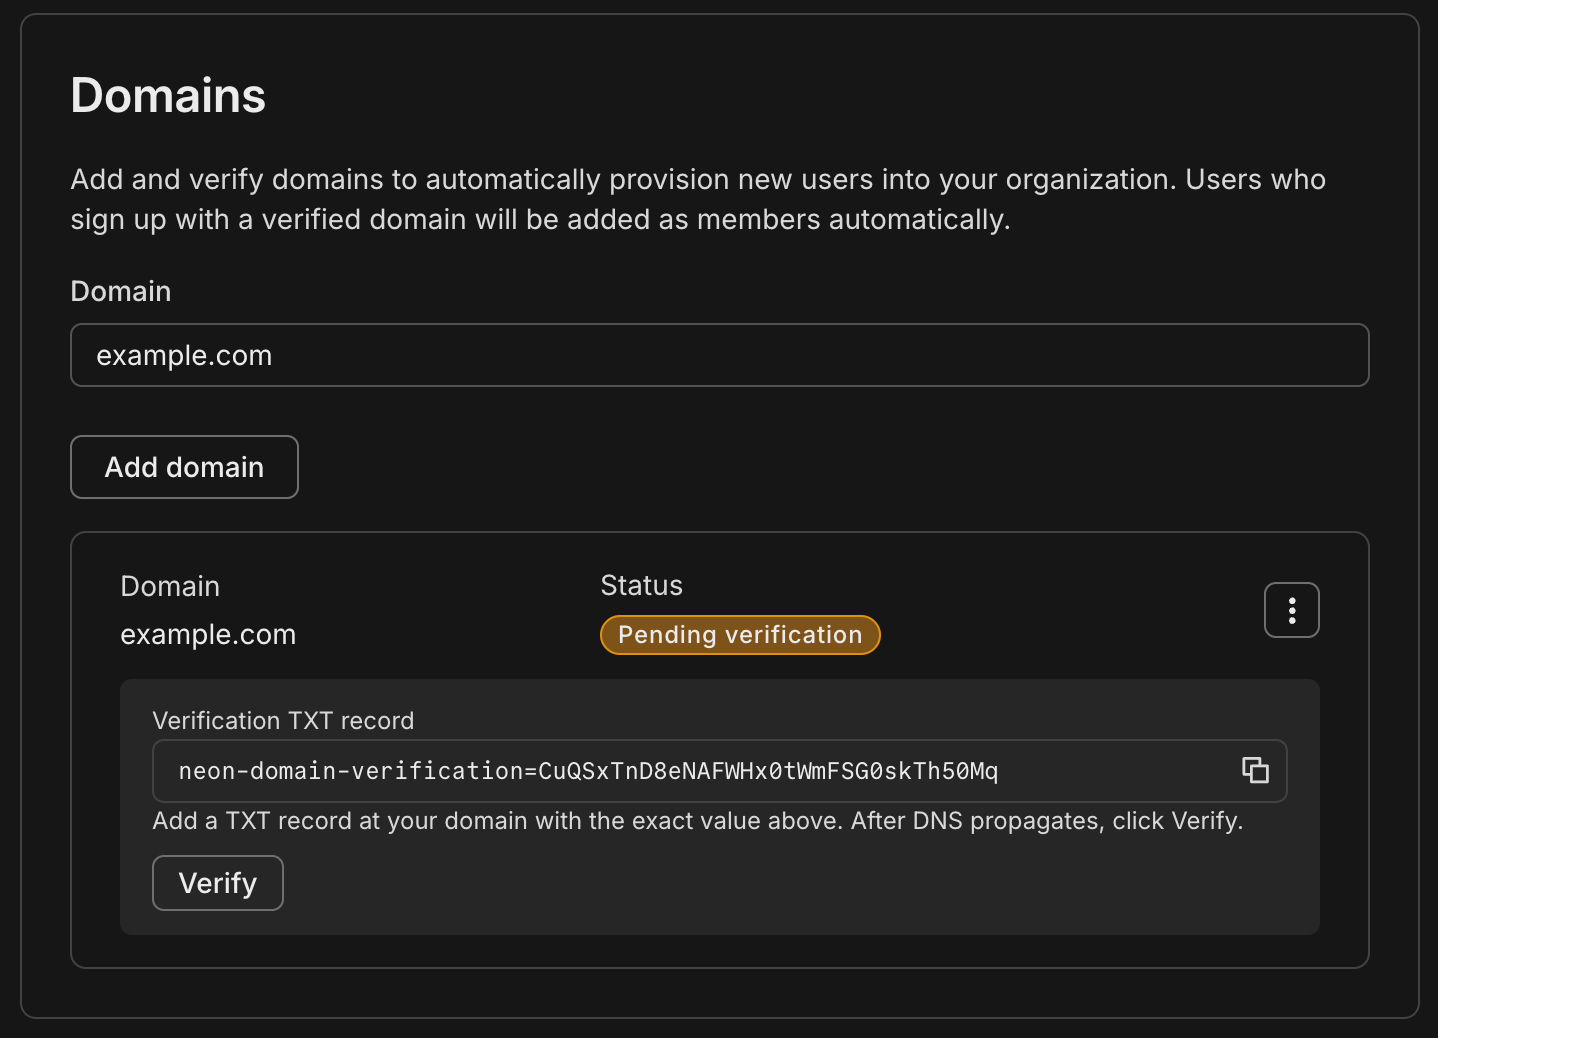
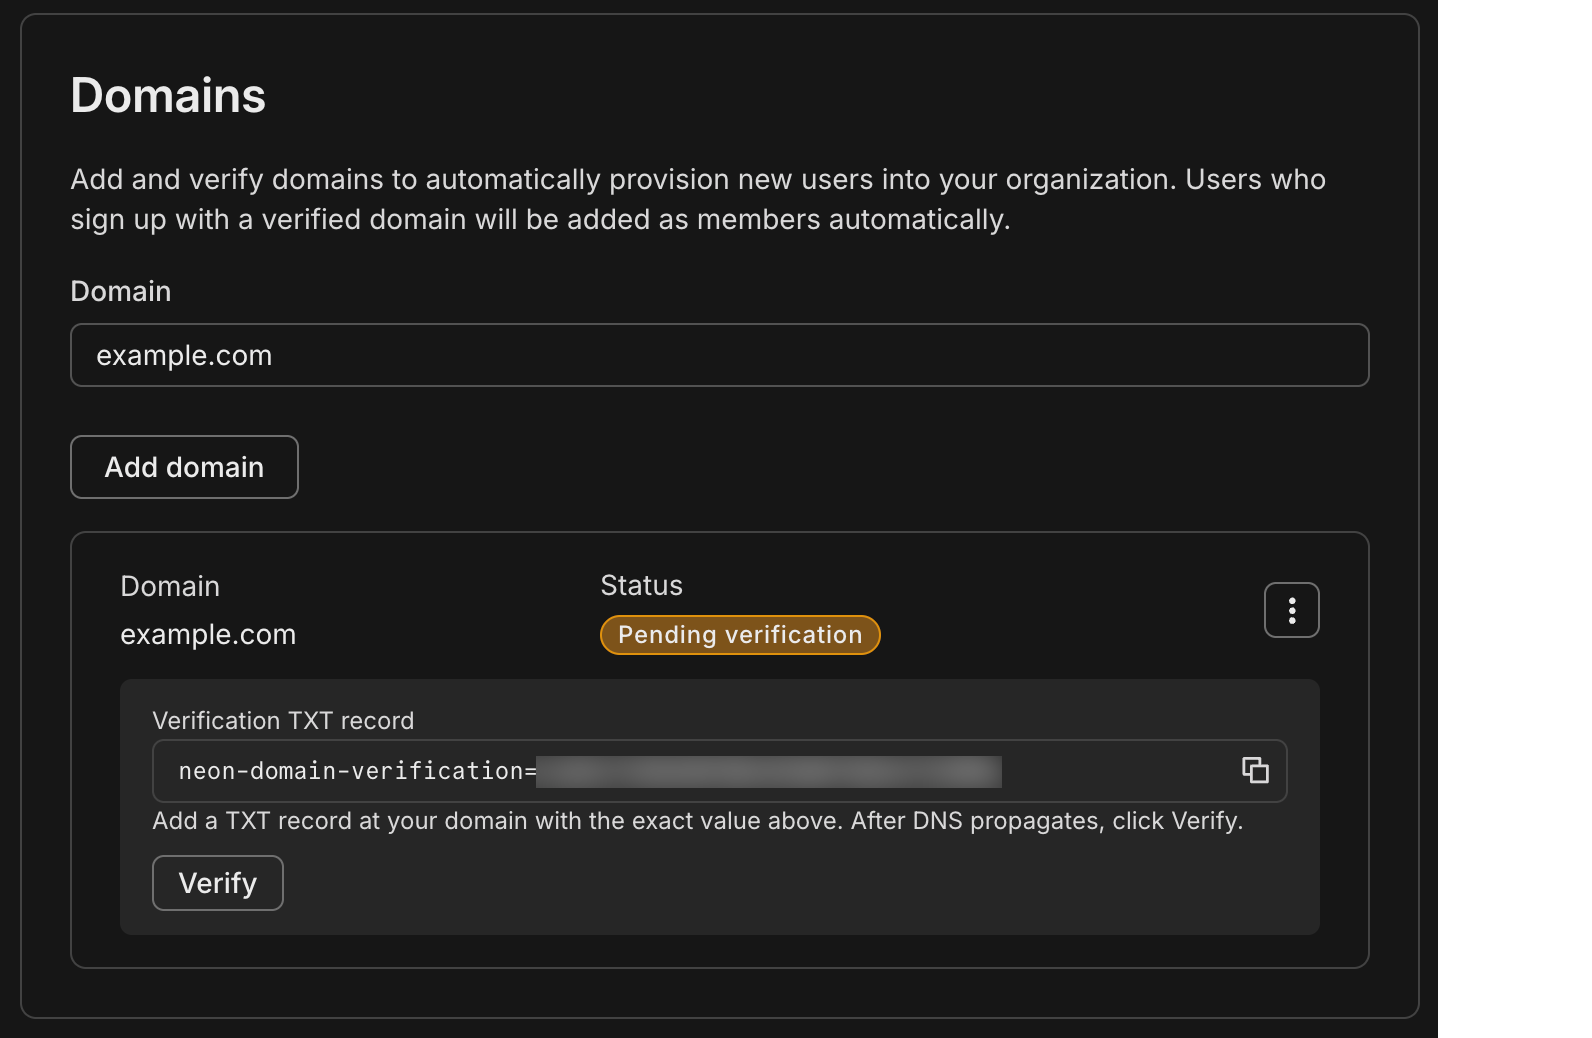
docs: blur image and add note

Changed region(s): [[0.3386, 0.7091, 0.6464, 0.7707]]

diff --git a/content/docs/manage/orgs-add-members-by-domain.md b/content/docs/manage/orgs-add-members-by-domain.md
@@ -48,6 +48,10 @@ TXT records can take from a few minutes to 48 hours to propagate. If verificatio
 
 After the TXT record has propagated, click **Verify** in the Neon Console (in the verification section for that domain). If the record matches, the domain status changes to **Verified**. Users who sign up or log in with an email at that domain will then be automatically added to the organization as members.
 
+<Admonition type="tip" title="After verification">
+You can delete the TXT record from your domain after verification. Neon only uses it to confirm ownership; the record does not need to remain in place.
+</Admonition>
+
 </Steps>
 
 ## Remove a domain
